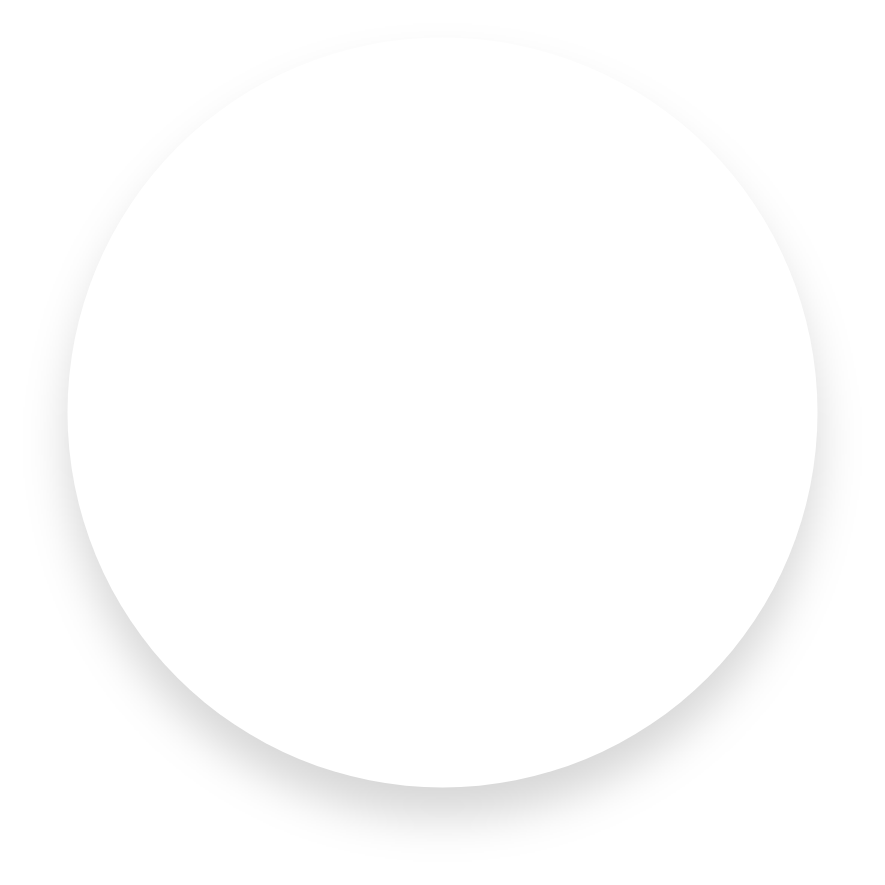
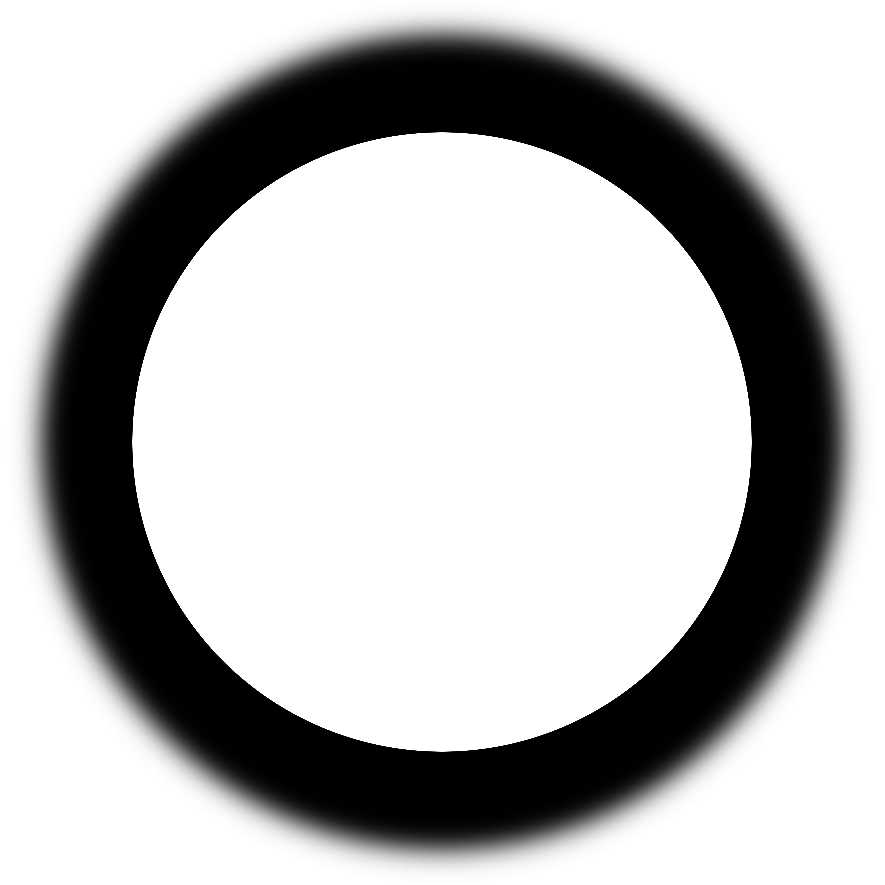
Add wheel shadow

diff --git a/Components/SpinPage.tsx b/Components/SpinPage.tsx
@@ -22,6 +22,7 @@ import {
   getEmojiImage,
 } from './Utilities/methods';
 import ArrowDown from './Shared/ArrowDown';
+import WheelShadowImg from '../Assets/wheelShadow.png';
 import CustomButton from './Shared/CustomButton';
 import Separator from './Shared/Separator';
 import {IWheelPie} from './Utilities/models.interface';
@@ -135,6 +136,7 @@ class SpinPage extends Component<NavigationInjectedProps & SpinPageProps> {
           <View style={[styles.spinnerArrow]}>
             <ArrowDown />
           </View>
+          <Image style={styles.spinnerShadow} source={WheelShadowImg} />
           <Animated.View
             style={[{transform: [{rotate: spin}]}, styles.wheelLabels]}>
             {this.state.wheelData.map((item: IWheelPie, i: number) => {
@@ -212,6 +214,7 @@ const styles = StyleSheet.create({
     backgroundColor: '#0000', // invisible color
     elevation: 1,
     marginTop: 0,
+    position: 'relative',
   },
   spinnerArrow: {
     position: 'absolute',
@@ -221,6 +224,12 @@ const styles = StyleSheet.create({
     top: 0,
     left: 0,
     right: 0,
+  },
+  spinnerShadow: {
+    position: 'absolute',
+    width: '100%',
+    height: '100%',
+    opacity: 0.7,
   },
   wheelLabels: {
     position: 'absolute',
